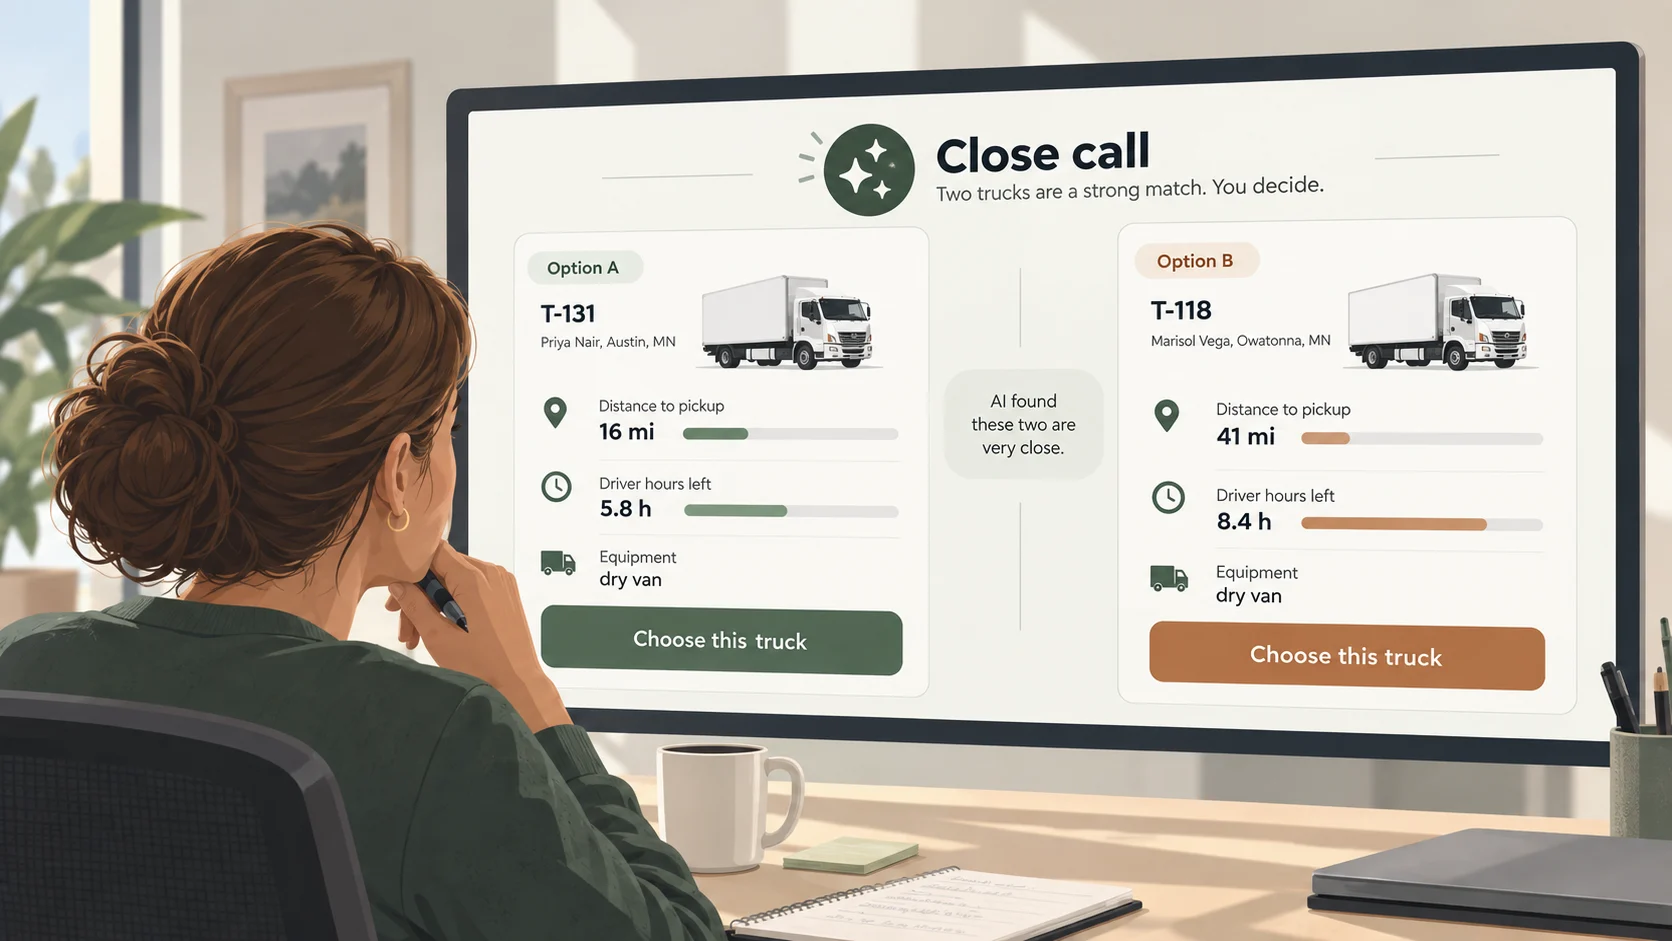
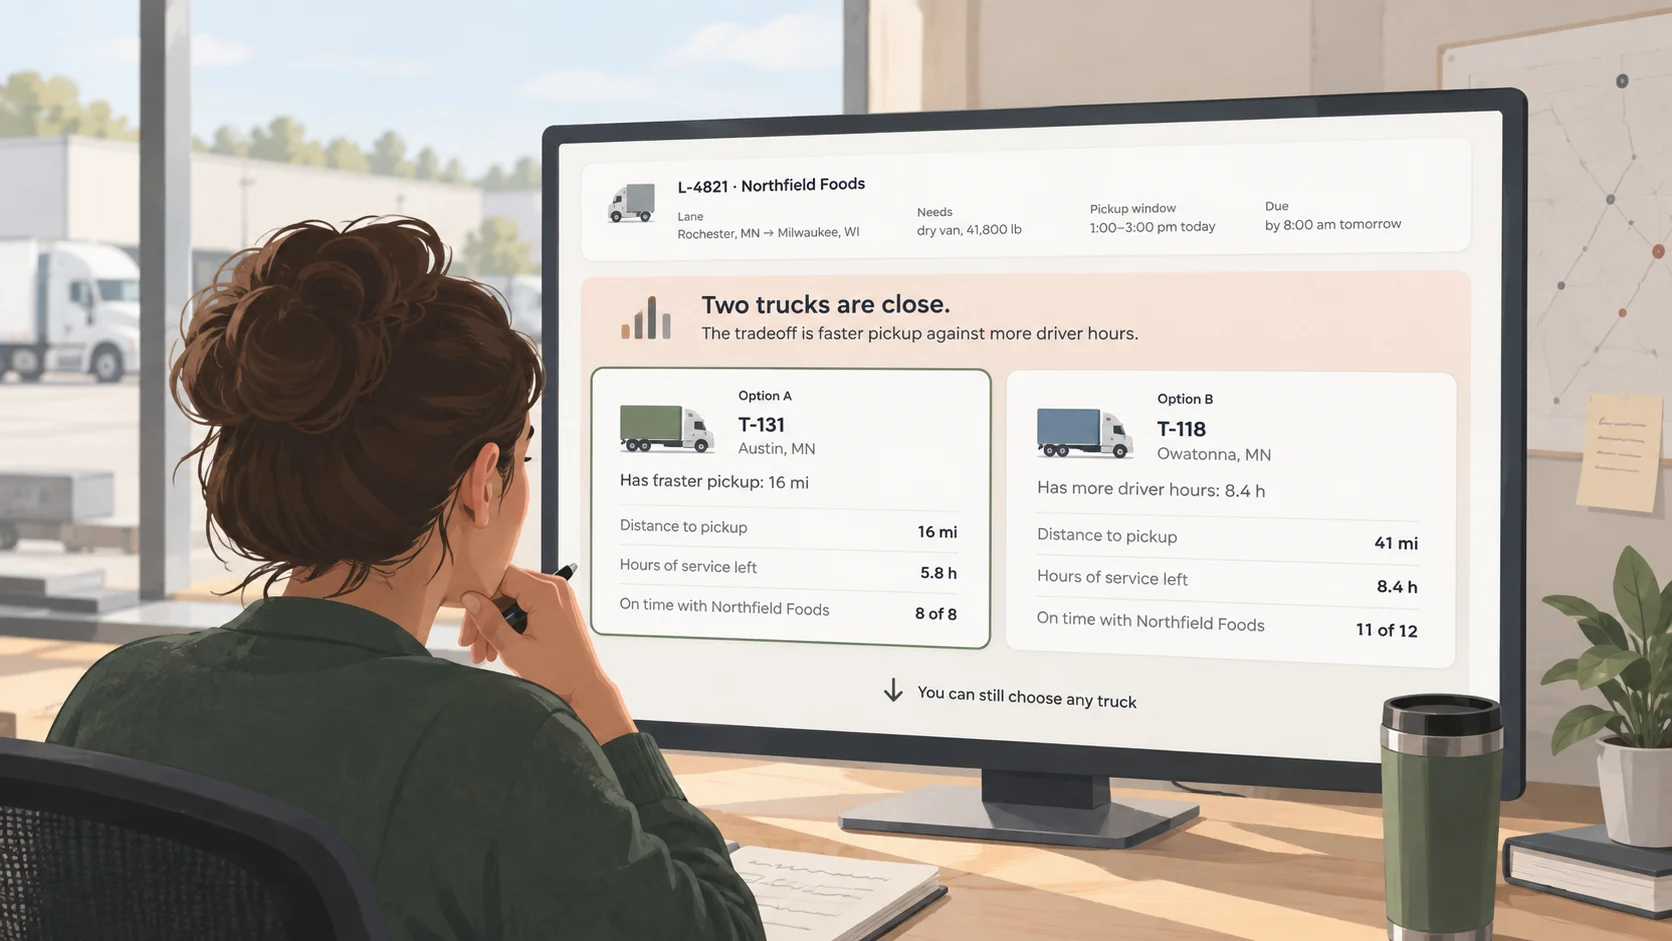
The cockpit card's drawing shows the load, the tradeoff and the way out
A second render, same path and same 1672x941, so nothing about the card's
box changes. This one earns the card's copy harder than the first: the load
is named at the top (L-4821, Rochester to Milwaukee, dry van, due by 8:00
am), the panel states the tradeoff in words -- faster pickup against more
driver hours -- each option carries its on-time record with that customer,
and a line under both says you can still choose any truck. That last line is
the "leave the final decision to the dispatcher" clause of the description,
drawn rather than claimed.

Alt text follows the new picture. It names the lane and the tradeoff and
stops short of a pronoun for the dispatcher, who is a drawing and has not
told us one.

No cache-buster: this path has never been served from adamhickey.com, so
there is nothing anywhere to invalidate. The next change to these bytes
needs one.

Counts unmoved: 1439 resting colors, 218 state rules, 5968 type sizes, 3099
elements on a curve.

KNOWN DEFECT, not fixable in this tree: the artwork has "Has fraster pickup"
where it means "faster", baked into the pixels of Option A. It is legible at
card size. This commit is here so the rest is not lost; it should not merge
until the render is corrected.

diff --git a/index.html b/index.html
@@ -482,7 +482,7 @@
                morph into. -->
           <a class="case-card case-card--prototype reveal" href="prototype/dispatch-cockpit.html" aria-label="Open the prototype: A dispatch cockpit that shows its work">
             <div class="case-thumb">
-              <img decoding="async" loading="lazy" src="img/site/dispatch-cockpit-close-call.webp" alt="A dispatcher at a desk weighing the cockpit&rsquo;s close call: two trucks side by side, each with its distance to pickup, driver hours left and equipment, and a button to choose it." width="1672" height="941"/>
+              <img decoding="async" loading="lazy" src="img/site/dispatch-cockpit-close-call.webp" alt="A dispatcher at a desk weighing the cockpit&rsquo;s close call on a load from Rochester to Milwaukee: two trucks are close, the tradeoff is faster pickup against more driver hours, and either truck is still the dispatcher&rsquo;s to pick." width="1672" height="941"/>
             </div>
             <div class="case-card-body">
               <h3>A dispatch cockpit that shows its work</h3>
